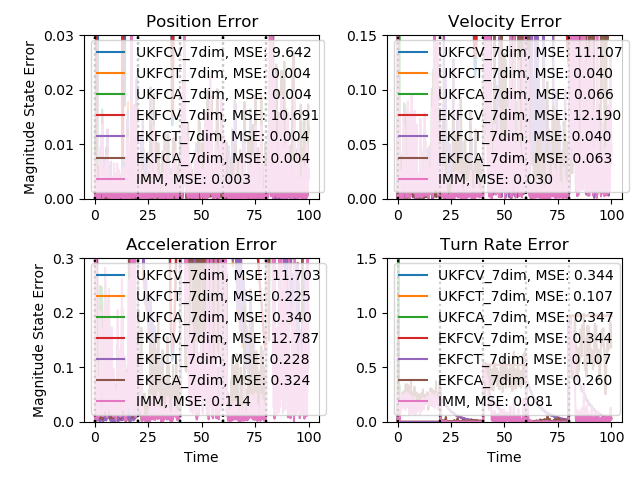
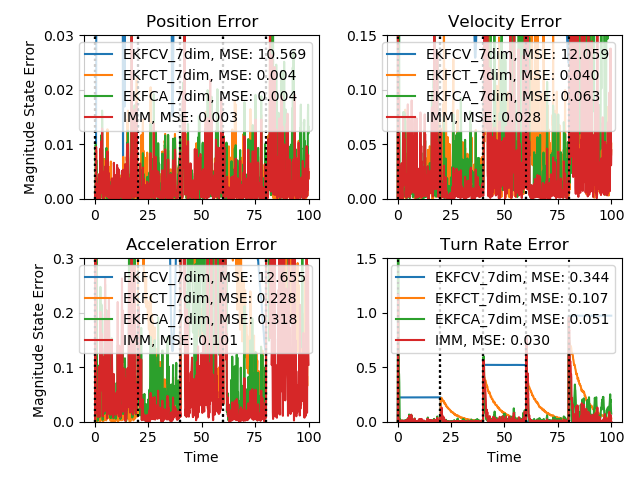
fix ca turn rate estimation

diff --git a/imm_synthetic.py b/imm_synthetic.py
@@ -46,23 +46,17 @@ np.random.seed(seed=12)
 
 sensor_model = RangeBearing(sigma_r, sigma_th, state_dim=7)
 filters = [
-    UKF(CV_7dim(sigma_q), sensor_model),
-    UKF(CT_7dim(sigma_a, sigma_w=sigma_w), sensor_model),
-    UKF(CA_7dim(sigma=sigma_a), sensor_model),
-
     EKF(CV_7dim(sigma_q), sensor_model),
     EKF(CT_7dim(sigma_a, sigma_w=sigma_w), sensor_model),
-    EKF(CA_7dim(sigma=sigma_a), sensor_model)
+    EKF(CA_7dim(sigma=sigma_a), sensor_model),
+
 ]
-
+individual_filters = []
 individual_filters = [
-    UKF(CV_7dim(sigma_q), sensor_model),
-    UKF(CT_7dim(sigma_a, sigma_w=sigma_w), sensor_model),
-    UKF(CA_7dim(sigma=sigma_a), sensor_model),
-
     EKF(CV_7dim(sigma_q), sensor_model),
     EKF(CT_7dim(sigma_a, sigma_w=sigma_w), sensor_model),
-    EKF(CA_7dim(sigma=sigma_a), sensor_model)
+    EKF(CA_7dim(sigma=sigma_a), sensor_model),
+
 ]
 
 filter_names = [filt.__class__.__name__ + filt.dyn_model.__class__.__name__ for filt in filters]
@@ -214,9 +208,9 @@ plot_statistics(times, mus.squeeze(), Sigmas.squeeze(), X.squeeze(), zs.squeeze(
 mus_ind['imm'] = mus.squeeze()
 Sigmas_ind['imm'] = Sigmas.squeeze()
 
-# for idx, flt in enumerate(individual_filters):
-# 	savestr=filter_names[idx]
-# 	plot_statistics(times, mus_ind[flt], Sigmas_ind[flt], X.squeeze(), zs.squeeze(), ['Px', 'Py', 'Vx', 'Vy', 'Ax', 'Ay', 'Turn Rate'], savestr=savestr, meas_states=None)
+for idx, flt in enumerate(individual_filters):
+	savestr=filter_names[idx]
+	plot_statistics(times, mus_ind[flt], Sigmas_ind[flt], X.squeeze(), zs.squeeze(), ['Px', 'Py', 'Vx', 'Vy', 'Ax', 'Ay', 'Turn Rate'], savestr=savestr, meas_states=None)
 
 filter_names.append('IMM')
 plot_errors(times, mus_ind, Sigmas_ind, X.squeeze(), zs.squeeze(), filter_names, 'imm_errors', switches=switches*dt)

diff --git a/dynamics_models/CA_7dim.py b/dynamics_models/CA_7dim.py
@@ -22,9 +22,12 @@ class CA_7dim():
         ddx = x[4]
         ddy = x[5]
         denom = dx**2 + dy**2
+        #if not denom == 0:
+        #F[6,6] = (-ddx*dy + ddy*dx)/denom
+        out = F@x
         if not denom == 0:
-            F[6,6] = (-ddx*dy + ddy*dx)/denom
-        return F@x
+            out[6] = (-ddx*dy + ddy*dx)/denom
+        return out 
 
     def F(self, x,u,T):
         F = np.zeros((7, 7))
